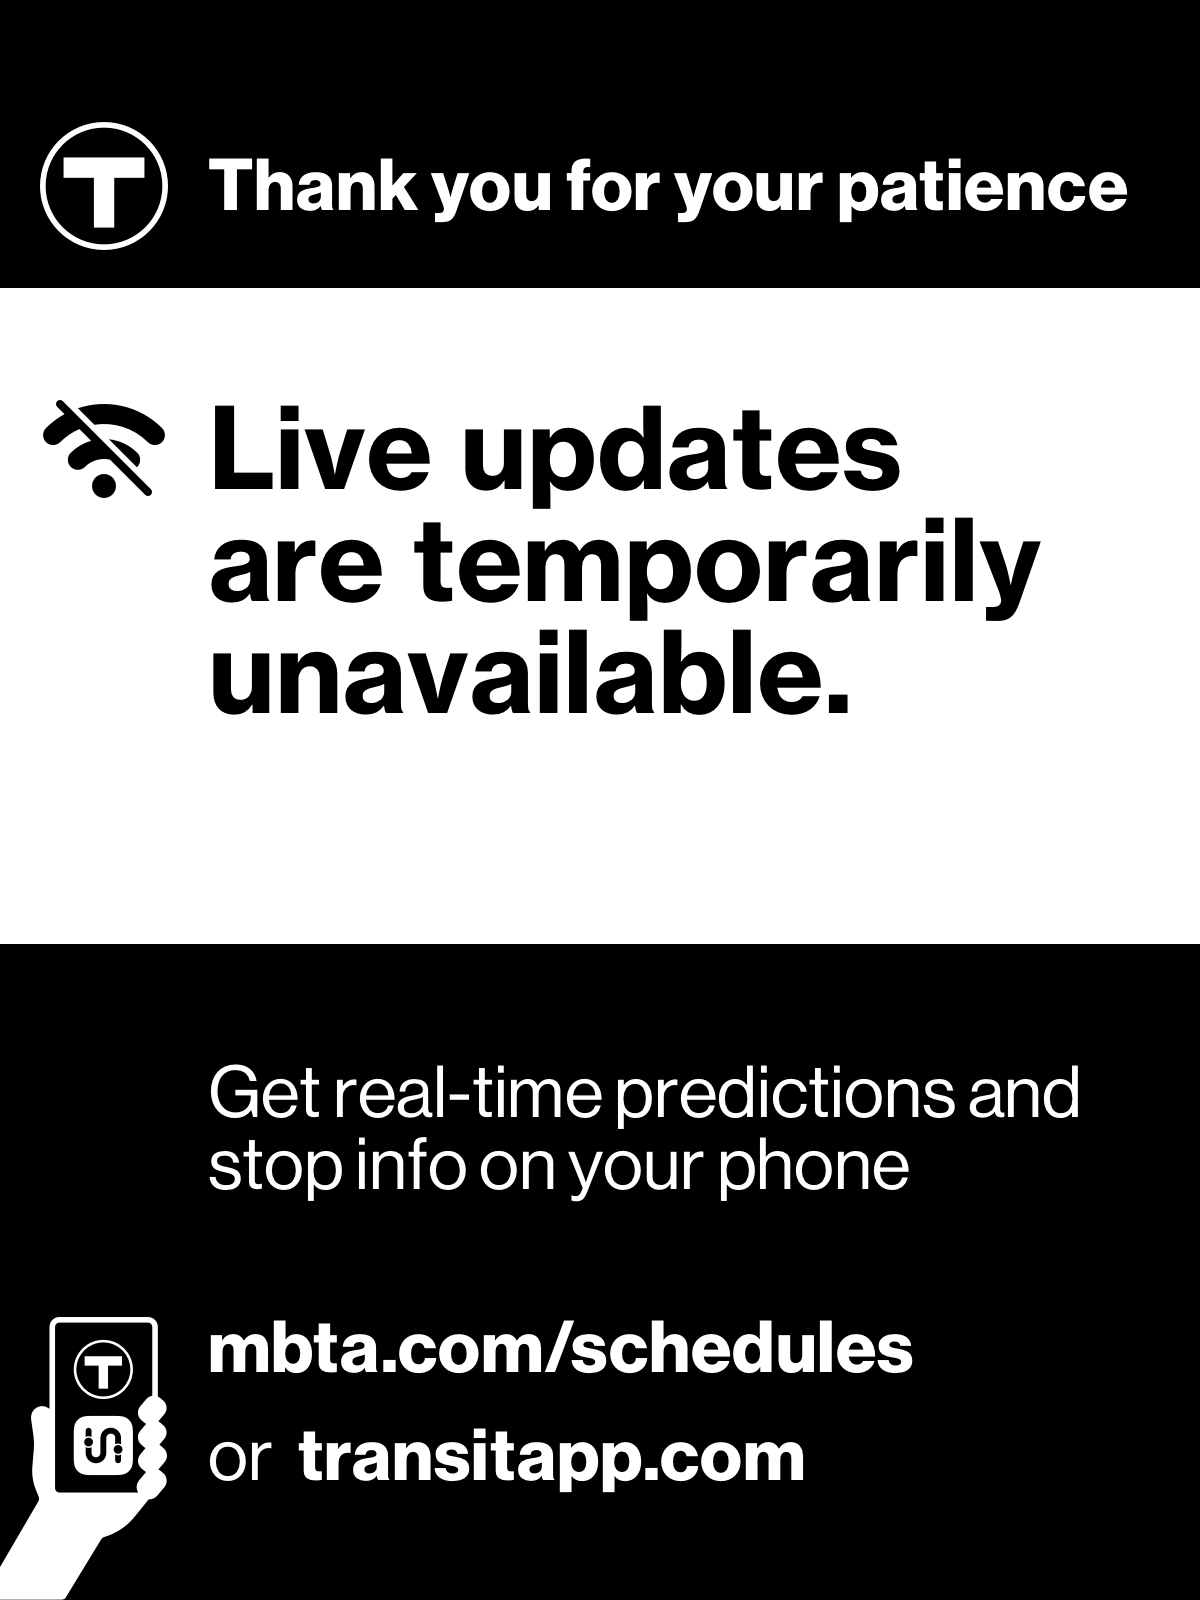
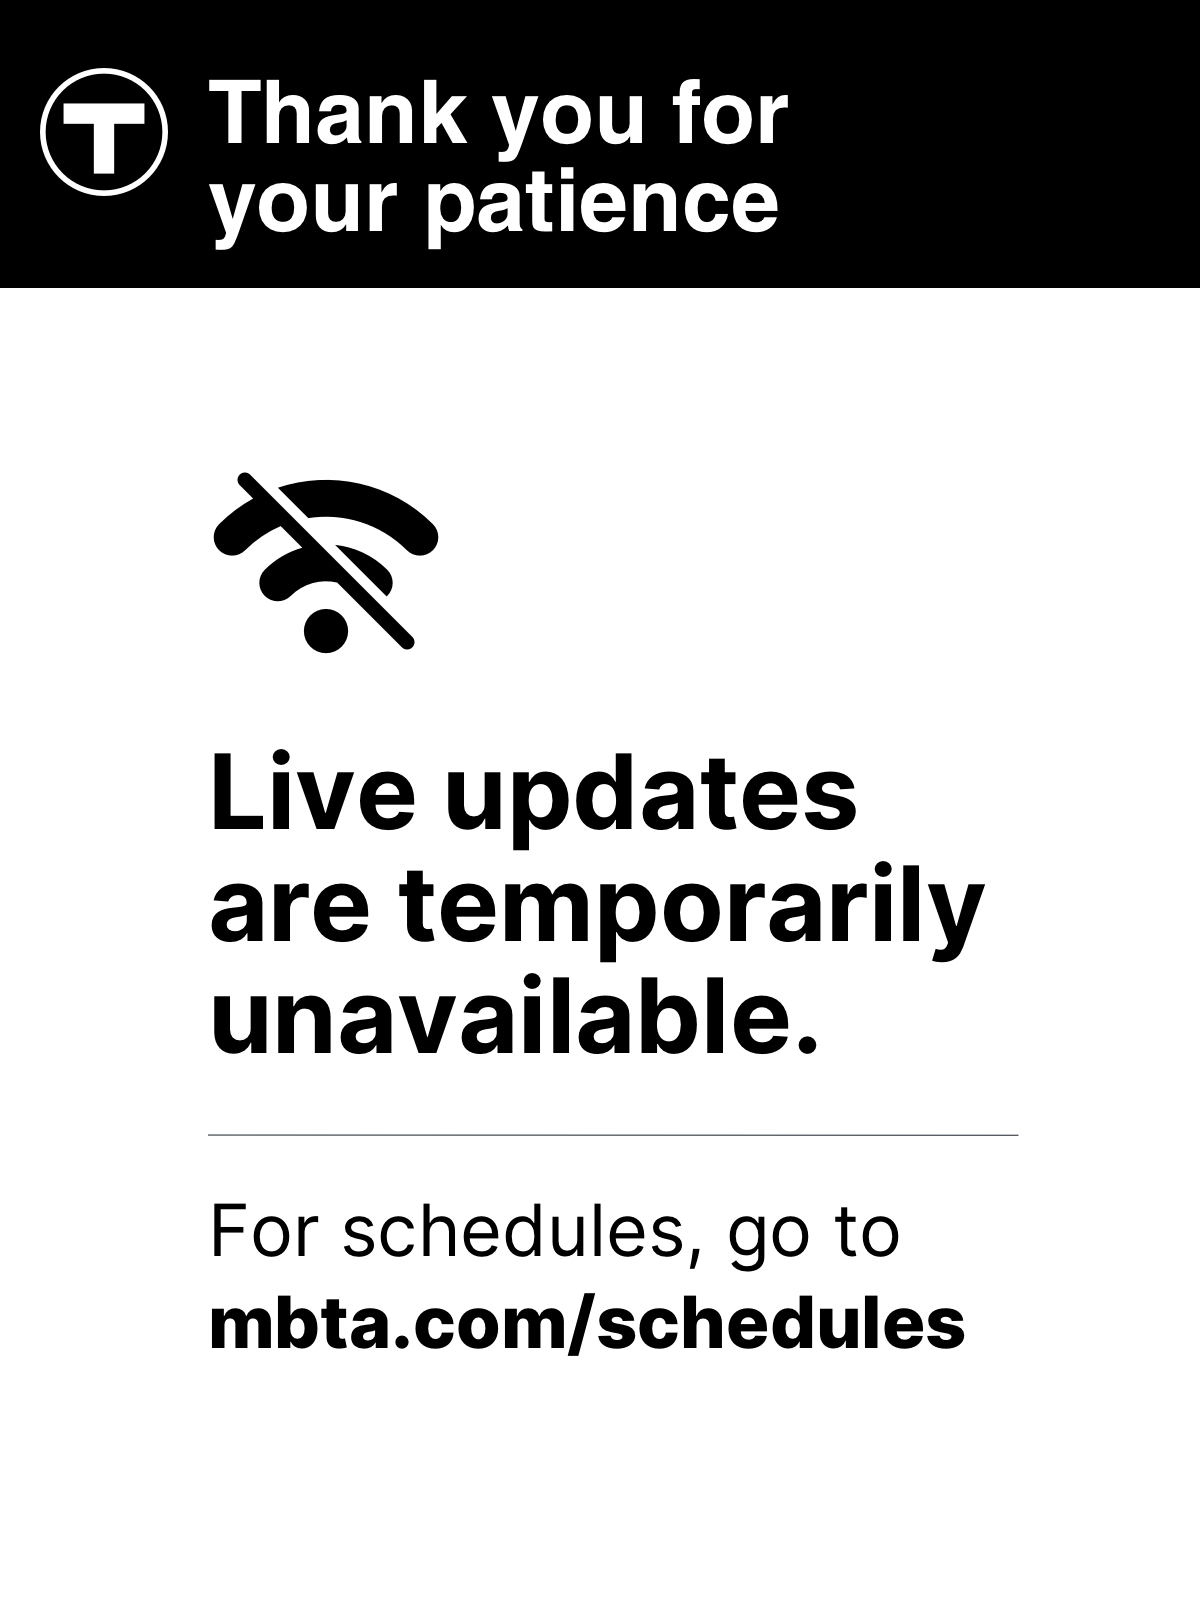
Updated NoData eink single screens.

diff --git a/assets/src/components/eink/green_line/single/screen_container.tsx b/assets/src/components/eink/green_line/single/screen_container.tsx
@@ -1,6 +1,6 @@
 import React from "react";
 
-import ConnectionError from "Components/eink/connection_error";
+import NoConnectionSingle from "Components/eink/no_connection_single";
 import DigitalBridge from "Components/eink/digital_bridge";
 import Departures from "Components/eink/green_line/departures";
 import Header from "Components/eink/green_line/header";
@@ -92,7 +92,7 @@ const NoDeparturesScreenLayout = ({ apiResponse }): JSX.Element => {
 
 const NoConnectionScreenLayout = (): JSX.Element => {
   // We weren't able to fetch data. Show a connection error message.
-  return <ConnectionError />;
+  return <NoConnectionSingle />;
 };
 
 const ScreenLayout = ({ apiResponse }): JSX.Element => {

diff --git a/assets/src/components/eink/no_connection_single.tsx b/assets/src/components/eink/no_connection_single.tsx
@@ -1,7 +1,7 @@
 import React from "react";
 import { imagePath } from "Util/util";
 
-const ConnectionError = (): JSX.Element => {
+const NoConnectionSingle = (): JSX.Element => {
   return (
     <div className="connection-error">
       <img src={imagePath("no-data-static-single.png")} />
@@ -9,4 +9,4 @@ const ConnectionError = (): JSX.Element => {
   );
 };
 
-export default ConnectionError;
+export default NoConnectionSingle;
